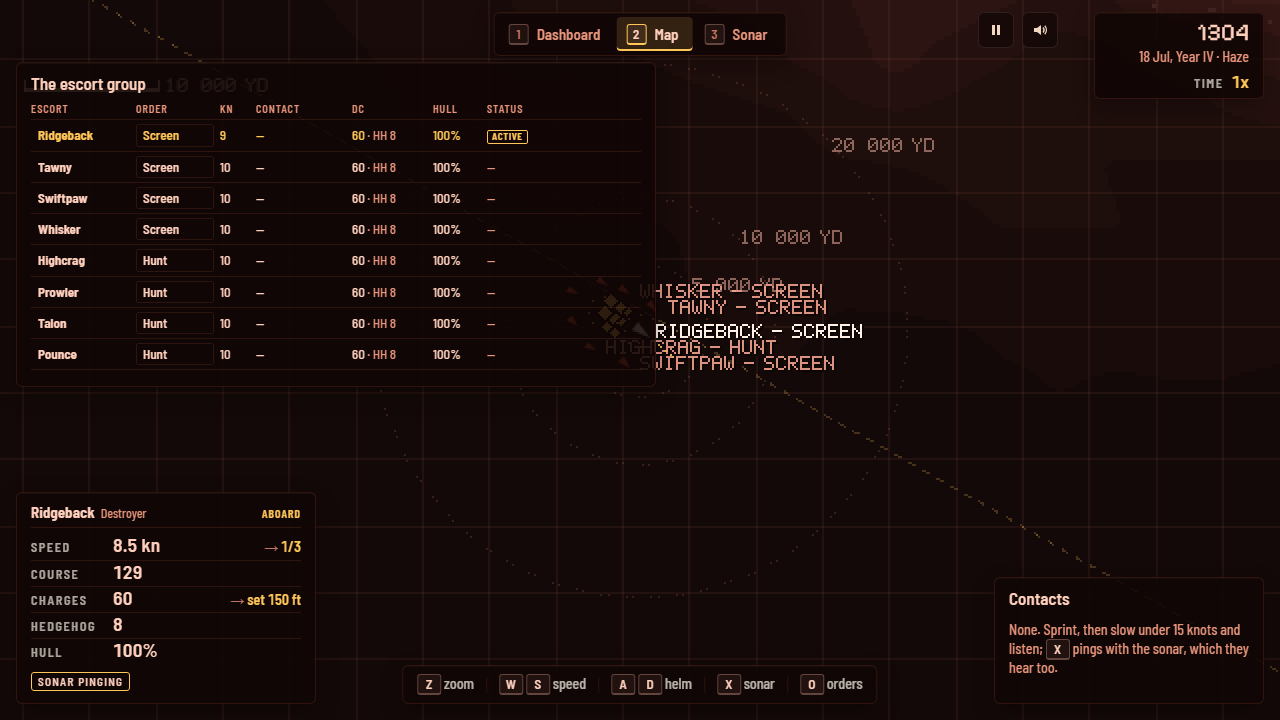
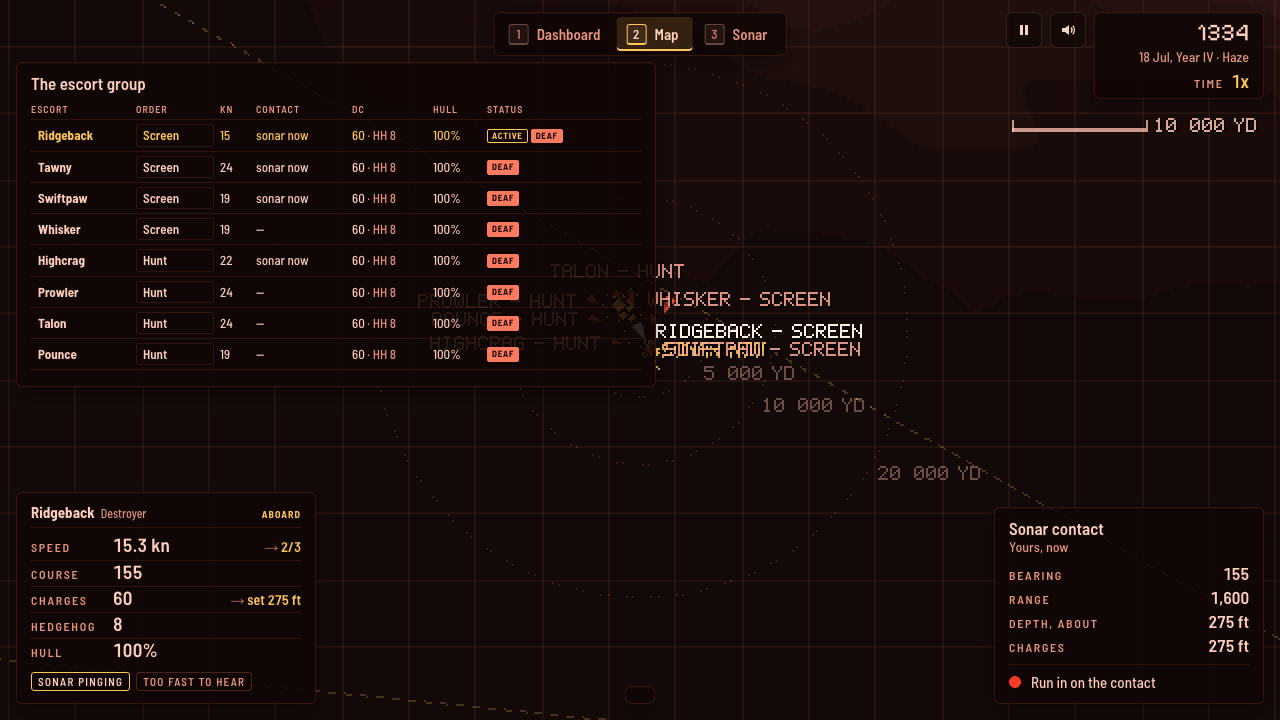
Docs: a short README in the house voice, DEVELOPMENT.md, fresh screenshots
The README takes games-meta STANDARD.md §13's shape, as The Silent Patrol's
and Airborne Puma's do: what the game is and what it remakes, the play
link, how it plays in three paragraphs, Reality and Classic/Field, a short
key table with Help for the rest, saves, credits, the footer. The credits
now name Wolfpack's designer and programmer (John Garcia, Chuck Romberger)
and its publisher, Broderbund.

The code tour, the checks and the ?play= debug start move to a new
DEVELOPMENT.md, which also records how each screenshot was taken.

Every screenshot is retaken after the critique fixes (the calmer map, the
briefing): the map mid-battle with a boat hunted and one silent, the scope
in high power on target, an escort by day with a contact and the lamp at
run in, the sonar's waterfall full of screws and charges, the escort map
with a contact, and a new briefing.png.

diff --git a/README.md b/README.md
@@ -1,93 +1,55 @@
 # The Long Convoy
 
-**Defend civilian shipping from the Wolf Empire's submarine packs, or switch sides and take it apart.** A modern re-imagining of *Wolfpack* (NovaLogic, 1990, DOS): command the wolfpack's boats one at a time while the rest sail under their orders, or sail with the Pumacity Defense Fleet (the PDF) and bring the city's convoys through, in hi-bit pixel art, in a boat rigged for red light.
+**A wolfpack against Pumacity's convoys, or an escort against the wolfpack.** A remake of *Wolfpack* (Broderbund, 1990, DOS): command a pack of Wolf Empire U-boats against the convoys of Pumacity, or sail with the convoy's escorts and hunt them, in modern hi-bit pixel art, rigged for red light.
 
-## Play
+**Play:** [greykit.com/games/thelongconvoy](https://greykit.com/games/thelongconvoy/)
 
-[greykit.com/games/thelongconvoy](https://greykit.com/games/thelongconvoy/)
-
-No install required. Plain scripts, no build step, nothing fetched at play time: every picture is drawn and every sound synthesised in the page; the three typefaces ship with it.
-
-![The title: a destroyer steaming right at dusk, a U-boat running left under her in a dark red sea, and the menu on an engine-room telegraph](screenshots/title.png)
+![The title: a destroyer steaming at dusk, a U-boat running under her in a dark red sea, and the menu on an engine-room telegraph](screenshots/title.png)
 
 ## How it plays
 
-Pumacity's convoys carry its oil, its ore and its troops between the islands, and the PDF's escorts ring them round. The Wolf Empire has a pack.
+Pumacity's convoys carry its oil, ore and troops between the islands, and the Pumacity Defense Fleet's escorts ring them round. The Wolf Empire has a pack. Every boat in it sails under the order you give her from the map: attack, shadow, patrol, evade, charge her batteries, hold. Take command of one at a time and the dashboard is hers: the periscope or the bridge, the sonar's waterfall, the dials, her tubes. Select a ship, wait for the lamp to say on target, and fire the spread; then go deep and quiet while the escorts hunt you. The rest of the pack fights on under their own captains, and their news comes in by name.
 
-- **The dashboard**, as in 1990: the vessel you are aboard, every instrument at once. The view out in the big window (the periscope at periscope depth, the bridge on the surface), the map and the sonar's waterfall in small ones, the telegraph, compass and depth, the dive bubble with its emergency blow and crash dive, battery and fuel, the target and its lamp, and the boat's plan with her tubes, reloads, deck gun, snorkel, radar and noisemakers; on an escort the sonar scope and its passive/active switch, the charges' depth and the racks. Every control is a button with a key. **AUTO / USER CONTROL** hands the vessel to its orders while you watch.
-- **The map runs the battle**, as in 1990: the depth in hard bands, the convoy as your side has seen it, and your whole side listed, a row a vessel: her order, depth, speed, battery, fuel, tubes, noisemakers, hull and her lamps (hunted, silent, charging, snorkelling; on an escort pinging, or too fast to hear). A click on a row selects her and a second takes command; a click on her order gives her the next one. The card at the lower left shows whichever vessel the mouse is over.
-- **Every boat sails under her order:** Attack (her captain finds the convoy and goes in), Shadow, Patrol (her waypoints: a right click on the map), Evade, Drift, Charge, Periscope depth, Hold.
-- **Take command of one boat at a time** (`Enter`, a second click, or `N` for the next): then the view out of her is yours, with her helm, telegraph and tubes.
-- **Select and fire.** `T` or a click selects a ship; `Space` fires the spread at her, or at the nearest in range, one torpedo after another. The boat's fire control aims each, and says so when the angle is wrong for those tubes or the range too long. On the surface the deck gun's crew lay it themselves; `G` fires. Ships are traced from 3D models at their true angle on the bow.
-- **The sonar**, after *688 Attack Sub*'s: a waterfall of what you hear, a band at each thing's bearing, brighter the louder, your own speed the noise floor; a depth charge a line right across. An escort's pings are heard going out and coming back off every hull in the beam; from a U-boat you hear them strike yours.
-- **The pack shares what it sees**, and its news comes in its boats' names: who is firing, who is hunted, who is lost. When the boat you are on goes down, command passes to the next.
+Or play the other side, as the 1990 game let you: aboard one of the escorts, against a pack that sails on its own. Sprint, then stop and listen; ping, run in over the contact and lay a pattern of depth charges set to its depth; give the other escorts their orders from the map.
 
-Eight missions after the 1990 game's, set in the Wolf War: from two boats against five unescorted ships, through the fuel tankers and a hunter-killer group, to eight boats in the decisive battle. And a custom mission of your own making, and target practice to learn the attack. A boat under water can drop a noisemaker for the escorts to hunt instead of her, and a boat whose radio is damaged can neither take your orders nor send you news.
+Eight missions from the pack's side and eight from the escorts', from two boats against five unescorted ships to the decisive battle, plus a custom mission and target practice. Each ends with the 1990 game's debrief: a score, a rating, and every vessel's fate.
 
-**Or play the other side**, as the original let you: the **Pumacity Defense Fleet**, aboard one of the convoy's escorts, against a wolfpack whose boats sail under their own captains. Sprint and drift to hear them, ping with the sonar, run in over a contact and lay a pattern of depth charges set to its depth, throw the hedgehog late in the war, fight a surfaced boat with the guns, and give the other escorts their orders from the map (screen, hunt, patrol, hold). Eight missions have the PDF's side, among them the night defence of an anchorage.
+**Reality** settings, chosen before a mission, make the war harder (limited visibility, zig-zags, expert escorts, torpedo failures, port-only repairs). **Classic** plays as 1990 did: the instruments and your eyes. **Field**, the default, adds a solution line, torpedo tracks, range labels and key hints.
 
-Every mission ends with the 1990 game's debrief: who won, a score and one of eleven ratings, each side's vessels at the start and lost, every weapon's fired, hits and kills, and every boat by name.
+![The map, mid-battle: the pack listed with each boat's order, depth, battery, tubes and status, one surfaced and hunted, another silent, the convoy on the plot](screenshots/map.png)
 
-![The map as the wolfpack: the pack listed with each boat's order, depth, battery, tubes and hull, the boats on the plot, and the card for the boat you are aboard](screenshots/map.png)
+![A U-boat's dashboard: the periscope in high power on a tanker, the target lamp on, the waterfall with the convoy's band ahead, the dials, and the boat's plan with her tubes](screenshots/dashboard.png)
 
-![A wolf boat's dashboard: the periscope on a tanker at 2,500 yards, the target lamp on, the sonar's waterfall with the convoy's band ahead, the dials, the dive bubble and the boat's plan with her tubes](screenshots/dashboard.png)
+![An escort's dashboard: her bridge by day with two of the convoy in sight, a sonar contact at 3,050 yards and the lamp saying run in, the waterfall full of screws, the patterns, the racks and the hedgehog](screenshots/pdf-dashboard.png)
 
-![The Sonar screen aboard an escort: the convoy's screws as bands on the waterfall, and what is heard listed by bearing](screenshots/sonar.png)
-
-![A PDF escort's dashboard: her bridge, the waterfall, the telegraph and compass, the sonar scope with active pinging on, the patterns, the racks and the hedgehog](screenshots/pdf-dashboard.png)
-
-![The map as the PDF: the escort group listed with each escort's order, contact, charges, hull and lamps, and the card for the escort you are aboard](screenshots/escorts.png)
-
-## Reality, and Classic and Field
-
-**Reality** is the war itself, set before a mission: limited visibility, convoy zig-zags, expert escorts, torpedo failures and port-only repairs. **Aids** never change the war: **Classic** is the instruments and your eyes; **Field**, the default, adds a solution line, torpedo tracks, range labels and key hints. `L` switches the set at sea.
+![The sonar aboard an escort: screws curving across the waterfall as they pass, the charges going off as lines straight across, and what is heard listed by bearing](screenshots/sonar.png)
 
 ## Keys
 
 | | |
 |---|---|
-| `1` / `2` / `3` / `4` / `5` | the dashboard / the map / the sonar / damage (a U-boat's) / the captain's log |
-| `J` / `I` | AUTO or USER CONTROL / the snorkel |
-| Click, `O`, right click | on the map: select a vessel (her row in the list, her mark or her name tag), give her the next order, add her a waypoint |
-| Click an order / wheel | in the map's list: her next order (`Shift`: the one before); on the map, her order tag opens her orders / zoom about the mouse |
-| `Enter` / `N` | take command of the vessel selected / of the next |
-| `W` `S` | telegraph |
-| `A` `D` | the rudder, while held |
-| `Q` `E` / `PgUp` `PgDn` | depth; `P` periscope depth, `U` surface, `C` crash dive |
-| Arrows | in the view: train and raise the periscope, look round; on the map: the helm and telegraph |
-| `T` / `H` / `B` | select the ship nearest the crosshair / swing onto the target / to the bow, again the stern |
-| `Space` | fire the spread at the target, or the nearest in range; `F` forward or after tubes, `V` the spread (one to four) |
-| `G` | man the deck gun; manned, fire it; `Shift`+`G` secures it |
-| `X` / `K` / `Y` | silent running / a noisemaker / radar |
-| `+` `−` / `Backspace` | time compression / back to 1x |
-| `Esc` / `L` / `M` / `?` | pause / Classic or Field / sound / help |
+| `1`–`5` | dashboard, map, sonar, damage, the captain's log |
+| `W` `S` / `A` `D` | telegraph / helm |
+| `Q` `E` | depth; `P` periscope depth, `U` surface, `C` crash dive |
+| `Enter` / `N` / `O` | take command of the boat selected / of the next / her next order |
+| `T` / `Space` | select the ship nearest the crosshair / fire the spread |
+| `X` | silent running; on an escort, active or passive sonar |
+| `+` `−` | time compression |
+| `Esc` / `L` / `M` / `?` | pause / Classic or Field / sound / every key |
 
-On the PDF's side: `W` `S` and `A` `D` speed and helm, `X` sonar (passive or active), `Q` `E` the charges' depth (`Shift` for 100 feet), `V` the weapon (the diamond, double or wide pattern, or the hedgehog), `Space` lays it when the lamp says over the contact, `F` the hedgehog at once, `G` the guns, `T` the next boat up in sight for them (or click her in the view), `N` the next escort, and on the map `O` and a right click for the others' orders.
-
-The dashboard's Blow and Crash buttons ask for a second click; `C` crash-dives at once. A gamepad works too; Help has its map. It is a desktop game: on a phone or a small window the page says so instead.
+A desktop game for keyboard, mouse or gamepad; Help has every key and the pad's map.
 
 ## Saves
 
-Everything is in this browser's `localStorage` under keys starting `thelongconvoy_`: a mission in progress, the service record (each mission's best), the settings and the sound. Settings → *Forget everything* clears exactly those. Saves from when the game was PumaPack (`pumapack_`) move over the first time it opens.
-
-## Code
-
-```
-js/engine/   the war, DOM-free: the sea, the boats of the pack, the ships and convoys, seeing and being seen, the escorts,
-             torpedoes and the fire control, the missions, a step of it all, the captain and the orders each boat sails under
-js/art/      the pixel art: the kit, the tracer, the ship models, the view out, the map, the title's painting, the sonar's
-             waterfall, the dashboard, the damage report
-js/          rendering, the HUD, input, sound and the title theme, the screens, settings and the record, and the loop
-tools/       sim-check (the captain plays every mission headless, the whole pack at once), asset stamps and checks, icons, the share card
-```
-
-`node tools/sim-check.js` plays every mission headless: the fire control's solution hits, the pack sinks ships, the boats you are not on fire on their own, the escorts hunt, and a mission replays step for step and survives being saved and loaded half way. `node tools/stamp-assets.js` stamps every script and stylesheet with its hash after an edit. `?play=<mission>&side=<pack|escorts>&seed=<n>&run=<steps>&station=<chart|sonar|damage>&awake=1` on the page drops straight into a mission, for testing and for pictures. `tools/ORIGINAL.md` is what the 1990 game's files hold, in our own words.
-
-The Long Convoy began as a copy of [The Silent Patrol](https://greykit.com/games/thesilentpatrol/) and shares its sea, its boats and its view out; the screens, the controls and the code are its own. Its sonar's waterfall follows Attack Puma's.
+Kept in the browser's `localStorage` under keys starting `thelongconvoy_`. **Settings → Forget everything** clears them.
 
 ## Credits
 
-The original *Wolfpack* was made by NovaLogic, 1990. This remake is not affiliated with NovaLogic; no code, art or audio from it is used. The boats, the ships, the islands and the war are our own. The typefaces are Barlow Semi Condensed, Courier Prime and Pixelify Sans, under the SIL Open Font License; their licences are beside them in `fonts/`.
+*Wolfpack* was designed by John Garcia and programmed by Chuck Romberger at NovaLogic, and published by Broderbund in 1990. The Long Convoy is not affiliated with NovaLogic or Broderbund and uses none of the original's code, art, sound or text. The boats, the ships, the islands and the war are new.
+
+Typefaces: [Barlow Semi Condensed](https://fonts.google.com/specimen/Barlow+Semi+Condensed), [Courier Prime](https://fonts.google.com/specimen/Courier+Prime) and [Pixelify Sans](https://fonts.google.com/specimen/Pixelify+Sans), under the SIL Open Font License.
+
+Working on the game: [DEVELOPMENT.md](DEVELOPMENT.md).
 
 By Matthew "Shan" Romanek, with Claude. Built by [greykit.com](https://greykit.com/).
 

diff --git a/DEVELOPMENT.md b/DEVELOPMENT.md
@@ -1,0 +1,41 @@
+# The Long Convoy: development
+
+Plain scripts, no build step, nothing fetched at play time: every picture is drawn and every sound synthesised in the page, and the three typefaces are in `fonts/`. What the game is meant to be is in [PRODUCT.md](PRODUCT.md), and how it looks in [DESIGN.md](DESIGN.md). What the 1990 game's files hold, in our own words, is in [tools/ORIGINAL.md](tools/ORIGINAL.md).
+
+The Long Convoy began as a copy of [The Silent Patrol](https://greykit.com/games/thesilentpatrol/) and shares its sea, its boats and its view out; the screens, the controls and the code are its own. Its sonar's waterfall follows Attack Puma's.
+
+## What's in here
+
+```
+js/engine/   the war, DOM-free: the sea, the boats of the pack, the ships and convoys, seeing and being seen, the escorts,
+             torpedoes and the fire control, the missions, a step of it all, the captain and the orders each boat sails under
+js/art/      the pixel art: the kit, the tracer, the ship models, the view out, the map, the title's painting, the sonar's
+             waterfall, the dashboard, the damage report
+js/          rendering, the HUD, input, sound and the title theme, the screens, settings and the record, and the loop
+tools/       sim-check (the captain plays every mission headless, the whole pack at once), asset stamps and checks, icons, the share card
+```
+
+## Checks
+
+`node tools/sim-check.js` plays every mission headless: the fire control's solution hits, the pack sinks ships, the boats you are not on fire on their own, the escorts hunt, and a mission replays step for step and survives being saved and loaded half way. `node tools/stamp-assets.js` stamps every script and stylesheet with its hash after an edit. `tools/preview.html` is the ship sheet; `tools/og.html` draws the share card; `node tools/make-icons.js` the icons.
+
+## Pictures
+
+`?play=<mission>&side=<pack|escorts>&seed=<n>&run=<steps>&station=<chart|sonar|damage>&awake=1` on the page drops straight into a mission, for testing and for pictures; `main.js` lists the rest (`near`, `depth`, `aim`, `hi`, `hour`, `wx`, `pause`). The briefing still opens: `Space` begins. `awake` keeps it running without the focus, as a headless browser never has it.
+
+The screenshots in `screenshots/` are 1280 × 720, taken headless:
+
+| | |
+|---|---|
+| `map.png` | `?play=gather&seed=1&run=6000&station=chart&awake=1`, `Space` |
+| `dashboard.png` | `?play=easy&seed=1&near=2200&depth=60&aim=1&hi=1&awake=1`, `Space`, `+` `+`, 15 s, `Backspace`, `T`, `H` |
+| `pdf-dashboard.png` | `?play=hunters&side=escorts&seed=1&run=20000&awake=1`, `Space`, `S` `S` `S`, `+` `+` `+`, 100 s, `Backspace` |
+| `sonar.png` | as `pdf-dashboard.png`, with `&station=sonar` |
+| `escorts.png` | `?play=hunters&side=escorts&seed=1&run=20000&station=chart&awake=1`, `Space` |
+| `briefing.png` | `?play=tankers&seed=1&awake=1` |
+
+The waterfall fills a line a second of the game's clock, so the waits under time compression are what fill it; on an escort, slowing under 15 knots first keeps her own noise off it.
+
+## Saves
+
+Saves from when the game was PumaPack (`pumapack_`) move over to `thelongconvoy_` the first time it opens.
